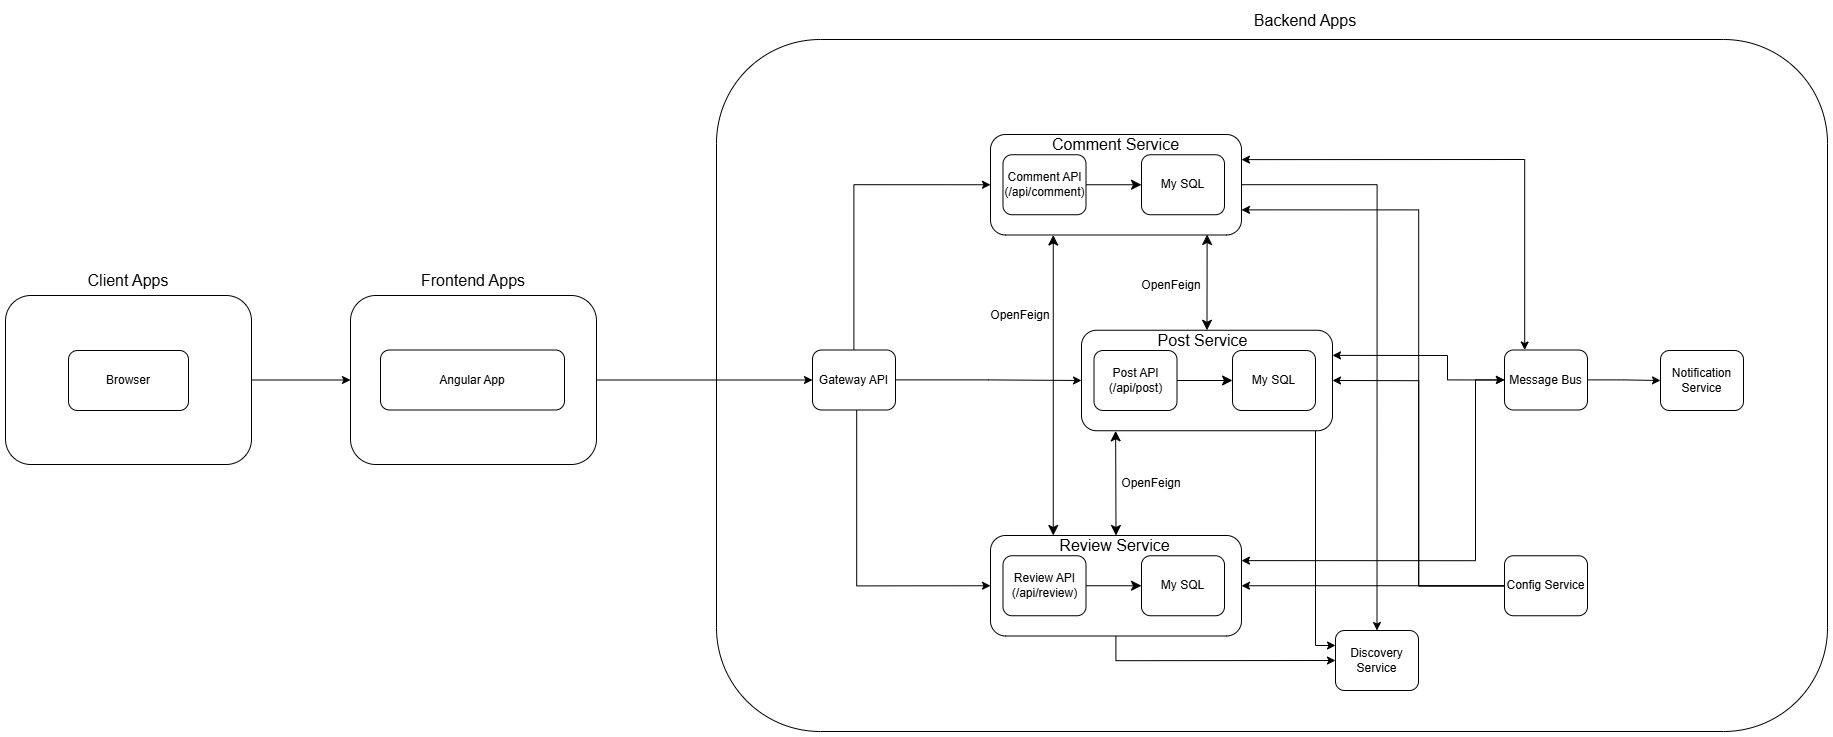
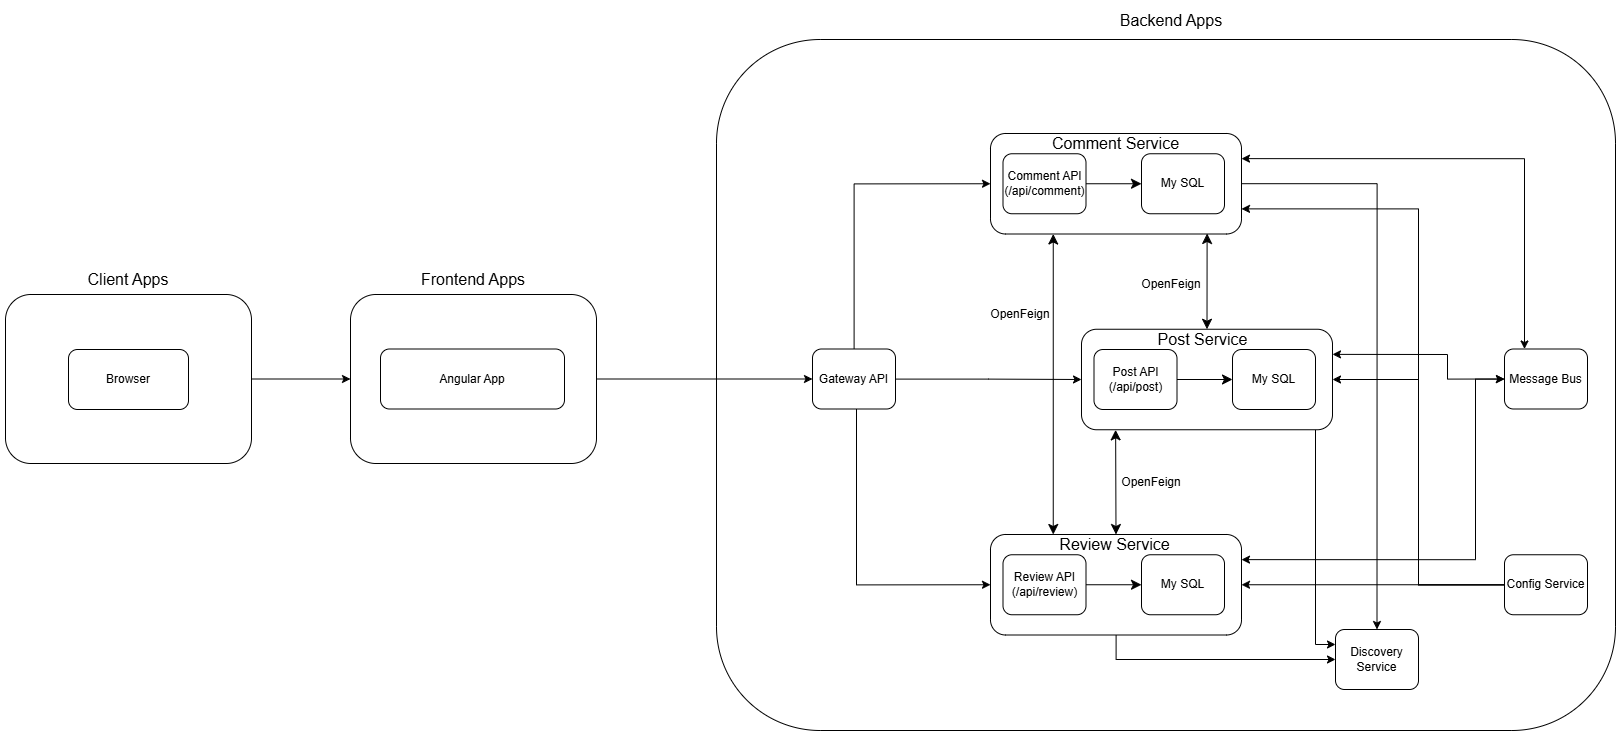
architecture second draft

diff --git a/architecture/architecture.md b/architecture/architecture.md
@@ -12,13 +12,11 @@
 
 * OpenFeign, een declaratieve REST-client.
  
-* ReviewService: Verantwoordelijk voor het beheer van reviews die aan berichten gekoppeld zijn. Het werkt samen met PostService en CommentService om gerelateerde gegevens op te halen, met behulp van OpenFeign voor communicatie tussen de services.
+* ReviewService: Verantwoordelijk voor het beheer van reviews die aan berichten gekoppeld zijn. Dit zal ook de redacteur meldingen sturen. Het werkt samen met PostService en CommentService om gerelateerde gegevens op te halen, met behulp van OpenFeign voor communicatie tussen de services.
  
 * CommentService: Beheert reacties op berichten en reviews. Deze service haalt relevante informatie op van PostService en ReviewService om reacties te verwerken.
  
 * Message Bus / RabbitMQ: Behandelt asynchrone communicatie tussen services via berichtwachtrijen. Bijvoorbeeld, wanneer gebeurtenissen in de PostService plaatsvinden, kunnen berichten naar de NotificationService worden gestuurd om gebruikers te informeren.
- 
-* NotificationService: Verantwoordelijk voor het versturen van meldingen naar gebruikers op basis van gebeurtenissen van andere services. Het luistert naar berichten van RabbitMQ om meldingen te verwerken.
  
 * ConfigService: Beheert de configuratie-instellingen van het systeem en biedt een gecentraliseerde configuratie voor alle services.
  
